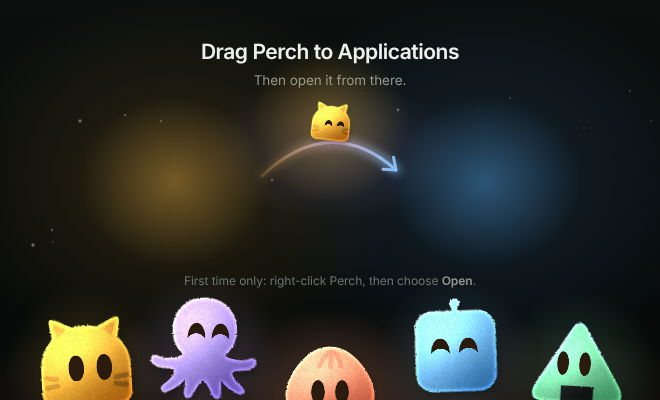
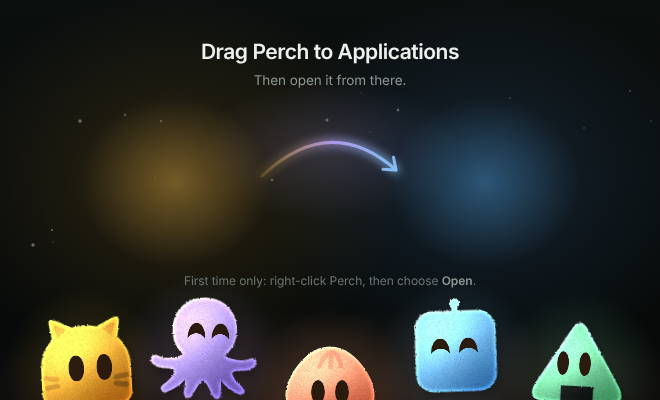
Install window: no cat on the arrow

Changed region(s): [[0.4242, 0.15, 0.5758, 0.45]]

diff --git a/ui/install/background.html b/ui/install/background.html
@@ -3,7 +3,7 @@
 <title>Perch disk image</title>
 <!-- The picture behind the icons in the Perch.dmg window (660 x 400 points). Finder puts the Perch icon on the left and the
      Applications folder on the right (scripts/make-dmg.sh places them at 175,180 and 485,180); this draws everything else:
-     the words, the light behind both icons, an arrow that arcs from one to the other with a small character hopping along it, and the
+     the words, the light behind both icons, an arrow that arcs from one to the other, and the
      crowd of characters, the real ones (app.js draws them, coat and eyes), peeking up from the bottom edge.
      The design page shows it in a Finder window; scripts/render-dmg-background.mjs renders it to Resources/dmg/background.png and @2x. -->
 <link rel="stylesheet" href="../dist/ui.css">
@@ -53,9 +53,7 @@ svg.fx { position: absolute; left: 0; top: 0; overflow: visible; }
 <script>
 /* shape, colour, centre x, top y (the bottom runs off the window), size, mood, which way the eyes look, tilt in degrees */
 var CREW = [['ears', '#F5B83D', 84, 308, 108, 'awake', [6, -3], -3], ['octo', '#B9A2F5', 203, 292, 112, 'happy', [4, -4], 2], ['bun', '#FF9E7A', 330, 330, 100, 'awake', [0, -4], 0],
-            ['tile', '#7DC4F5', 457, 298, 108, 'happy', [-4, -4], -2], ['peak', '#7FD9A8', 580, 314, 102, 'awake', [-6, -3], 3],
-            /* the small one hopping along the arrow, on its way to Applications */
-            ['ears', '#F5B83D', 330, 98, 46, 'happy', [4, 0], 6]];
+            ['tile', '#7DC4F5', 457, 298, 108, 'happy', [-4, -4], -2], ['peak', '#7FD9A8', 580, 314, 102, 'awake', [-6, -3], 3]];
 document.getElementById('crew').innerHTML = CREW.map(function (c) {
   var x = c[2], y = c[3], z = c[4];
   return '<div class="pal" style="left:' + x + 'px;top:' + (y + z * .55) + 'px;background:radial-gradient(circle,' + c[1] + (z > 60 ? '33' : '55') + ' 0%,' + c[1] + '00 66%)"></div>' +
